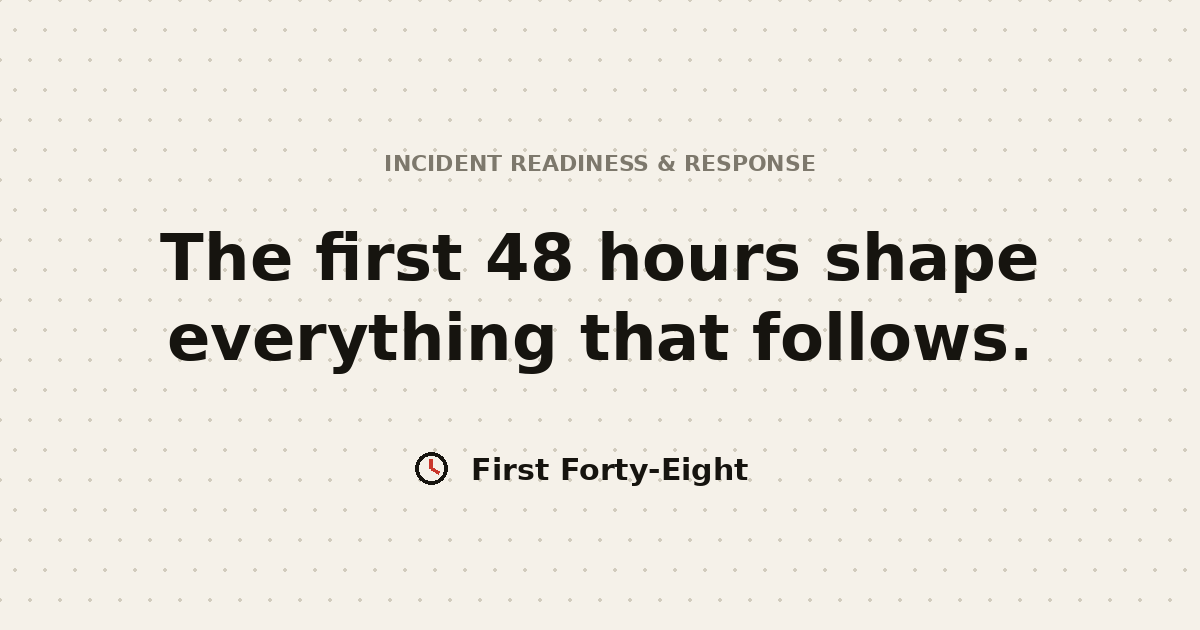
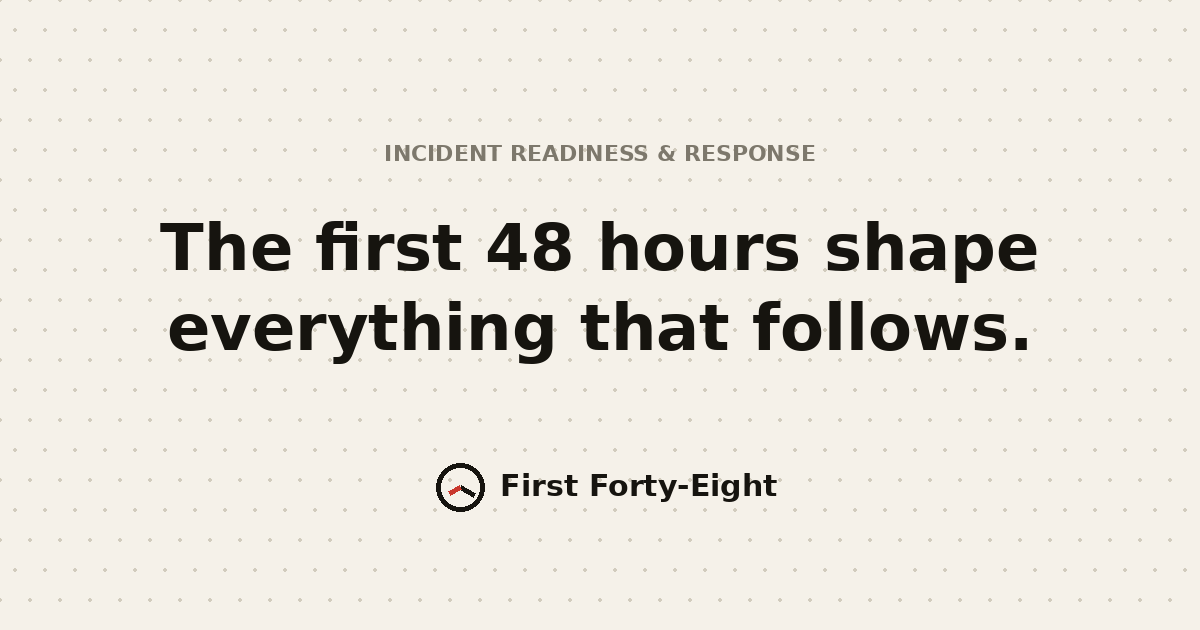
Apply 4-8 clock brand mark sitewide

diff --git a/index.html b/index.html
@@ -254,9 +254,10 @@
 
 <nav id="nav"><div class="nav-in">
   <a class="logo" href="#top">
-    <svg class="mark" viewBox="0 0 26 26" fill="none" xmlns="http://www.w3.org/2000/svg">
-      <circle cx="13" cy="13" r="11" stroke="#16140f" stroke-width="2"/>
-      <path d="M13 7v6l4.2 2.5" stroke="#c9372c" stroke-width="2" stroke-linecap="round"/>
+    <svg class="mark" viewBox="0 0 26 26" fill="none" xmlns="http://www.w3.org/2000/svg" aria-label="First Forty-Eight mark: clock hands at 4 and 8">
+      <circle cx="13" cy="13" r="11" stroke="#16140f" stroke-width="2.2"/>
+      <path d="M13 13l6.4 3.7" stroke="#16140f" stroke-width="2.2" stroke-linecap="round"/>
+      <path d="M13 13l-5.5 3.2" stroke="#c9372c" stroke-width="2.2" stroke-linecap="round"/>
     </svg>
     First Forty-Eight
   </a>
@@ -479,6 +480,11 @@
 </div></section>
 
 <section class="contact band" id="contact"><div class="wrap">
+  <svg class="rv" width="46" height="46" viewBox="0 0 100 100" fill="none" style="margin-bottom:26px" aria-hidden="true">
+    <circle cx="50" cy="50" r="40" stroke="#16140f" stroke-width="7"/>
+    <path d="M50 50l24 14" stroke="#16140f" stroke-width="7" stroke-linecap="round"/>
+    <path d="M50 50l-20.5 12" stroke="#c9372c" stroke-width="7" stroke-linecap="round"/>
+  </svg>
   <h2 class="rv">The plan is written now, or improvised then.</h2>
   <p class="rv">Start with a confidential readiness debrief and a no-obligation discovery call. Capacity is deliberately limited to a small number of retained clients.</p>
   <div class="row rv">
@@ -489,7 +495,14 @@
 </div></section>
 
 <footer><div class="wrap">
-  <div>First Forty-Eight</div>
+  <div style="display:flex;align-items:center;gap:9px">
+    <svg width="18" height="18" viewBox="0 0 26 26" fill="none" aria-hidden="true">
+      <circle cx="13" cy="13" r="11" stroke="currentColor" stroke-width="2.2"/>
+      <path d="M13 13l6.4 3.7" stroke="currentColor" stroke-width="2.2" stroke-linecap="round"/>
+      <path d="M13 13l-5.5 3.2" stroke="#c9372c" stroke-width="2.2" stroke-linecap="round"/>
+    </svg>
+    First Forty-Eight
+  </div>
   <div>Retained response partner for protocol &amp; product teams</div>
 </div></footer>
 

diff --git a/simulator.html b/simulator.html
@@ -58,7 +58,7 @@
 
   nav{position:sticky;top:0;z-index:20;background:rgba(245,241,233,.88);backdrop-filter:blur(12px);border-bottom:1px solid var(--line)}
   .nav-in{max-width:1080px;margin:0 auto;padding:0 28px;height:64px;display:flex;align-items:center;justify-content:space-between}
-  .logo{font-weight:600;font-size:15px}
+  .logo{font-weight:600;font-size:15px;display:flex;align-items:center;gap:9px}
   .sim-clock{font-family:var(--mono);font-size:13px;color:var(--dim);display:flex;gap:14px;align-items:center}
   .sim-clock b{color:var(--ink);font-weight:600}
   .phase-chip{font-size:11px;font-weight:600;letter-spacing:.14em;text-transform:uppercase;color:var(--alert);border:1px solid var(--line);border-radius:999px;padding:4px 12px;background:var(--card)}
@@ -201,7 +201,14 @@
 <canvas id="bgfield"></canvas>
 
 <nav><div class="nav-in">
-  <a class="logo" href="https://first48.io">First Forty-Eight</a>
+  <a class="logo" href="https://first48.io">
+    <svg width="20" height="20" viewBox="0 0 26 26" fill="none" aria-label="First Forty-Eight mark">
+      <circle cx="13" cy="13" r="11" stroke="#16140f" stroke-width="2.2"/>
+      <path d="M13 13l6.4 3.7" stroke="#16140f" stroke-width="2.2" stroke-linecap="round"/>
+      <path d="M13 13l-5.5 3.2" stroke="#c9372c" stroke-width="2.2" stroke-linecap="round"/>
+    </svg>
+    First Forty-Eight
+  </a>
   <div class="sim-clock" id="clockbar" style="display:none">
     <span class="scen" id="org-name"></span>
     <span class="phase-chip" id="phase-chip"></span>
@@ -242,6 +249,11 @@
 
 <!-- ============ DEBRIEF ============ -->
 <section id="debrief">
+  <svg width="40" height="40" viewBox="0 0 100 100" fill="none" style="margin-bottom:22px" aria-hidden="true">
+    <circle cx="50" cy="50" r="40" stroke="#16140f" stroke-width="7"/>
+    <path d="M50 50l24 14" stroke="#16140f" stroke-width="7" stroke-linecap="round"/>
+    <path d="M50 50l-20.5 12" stroke="#c9372c" stroke-width="7" stroke-linecap="round"/>
+  </svg>
   <div class="label">Incident debrief</div>
   <h1>Response profile</h1>
   <p class="sub" id="db-sub"></p>